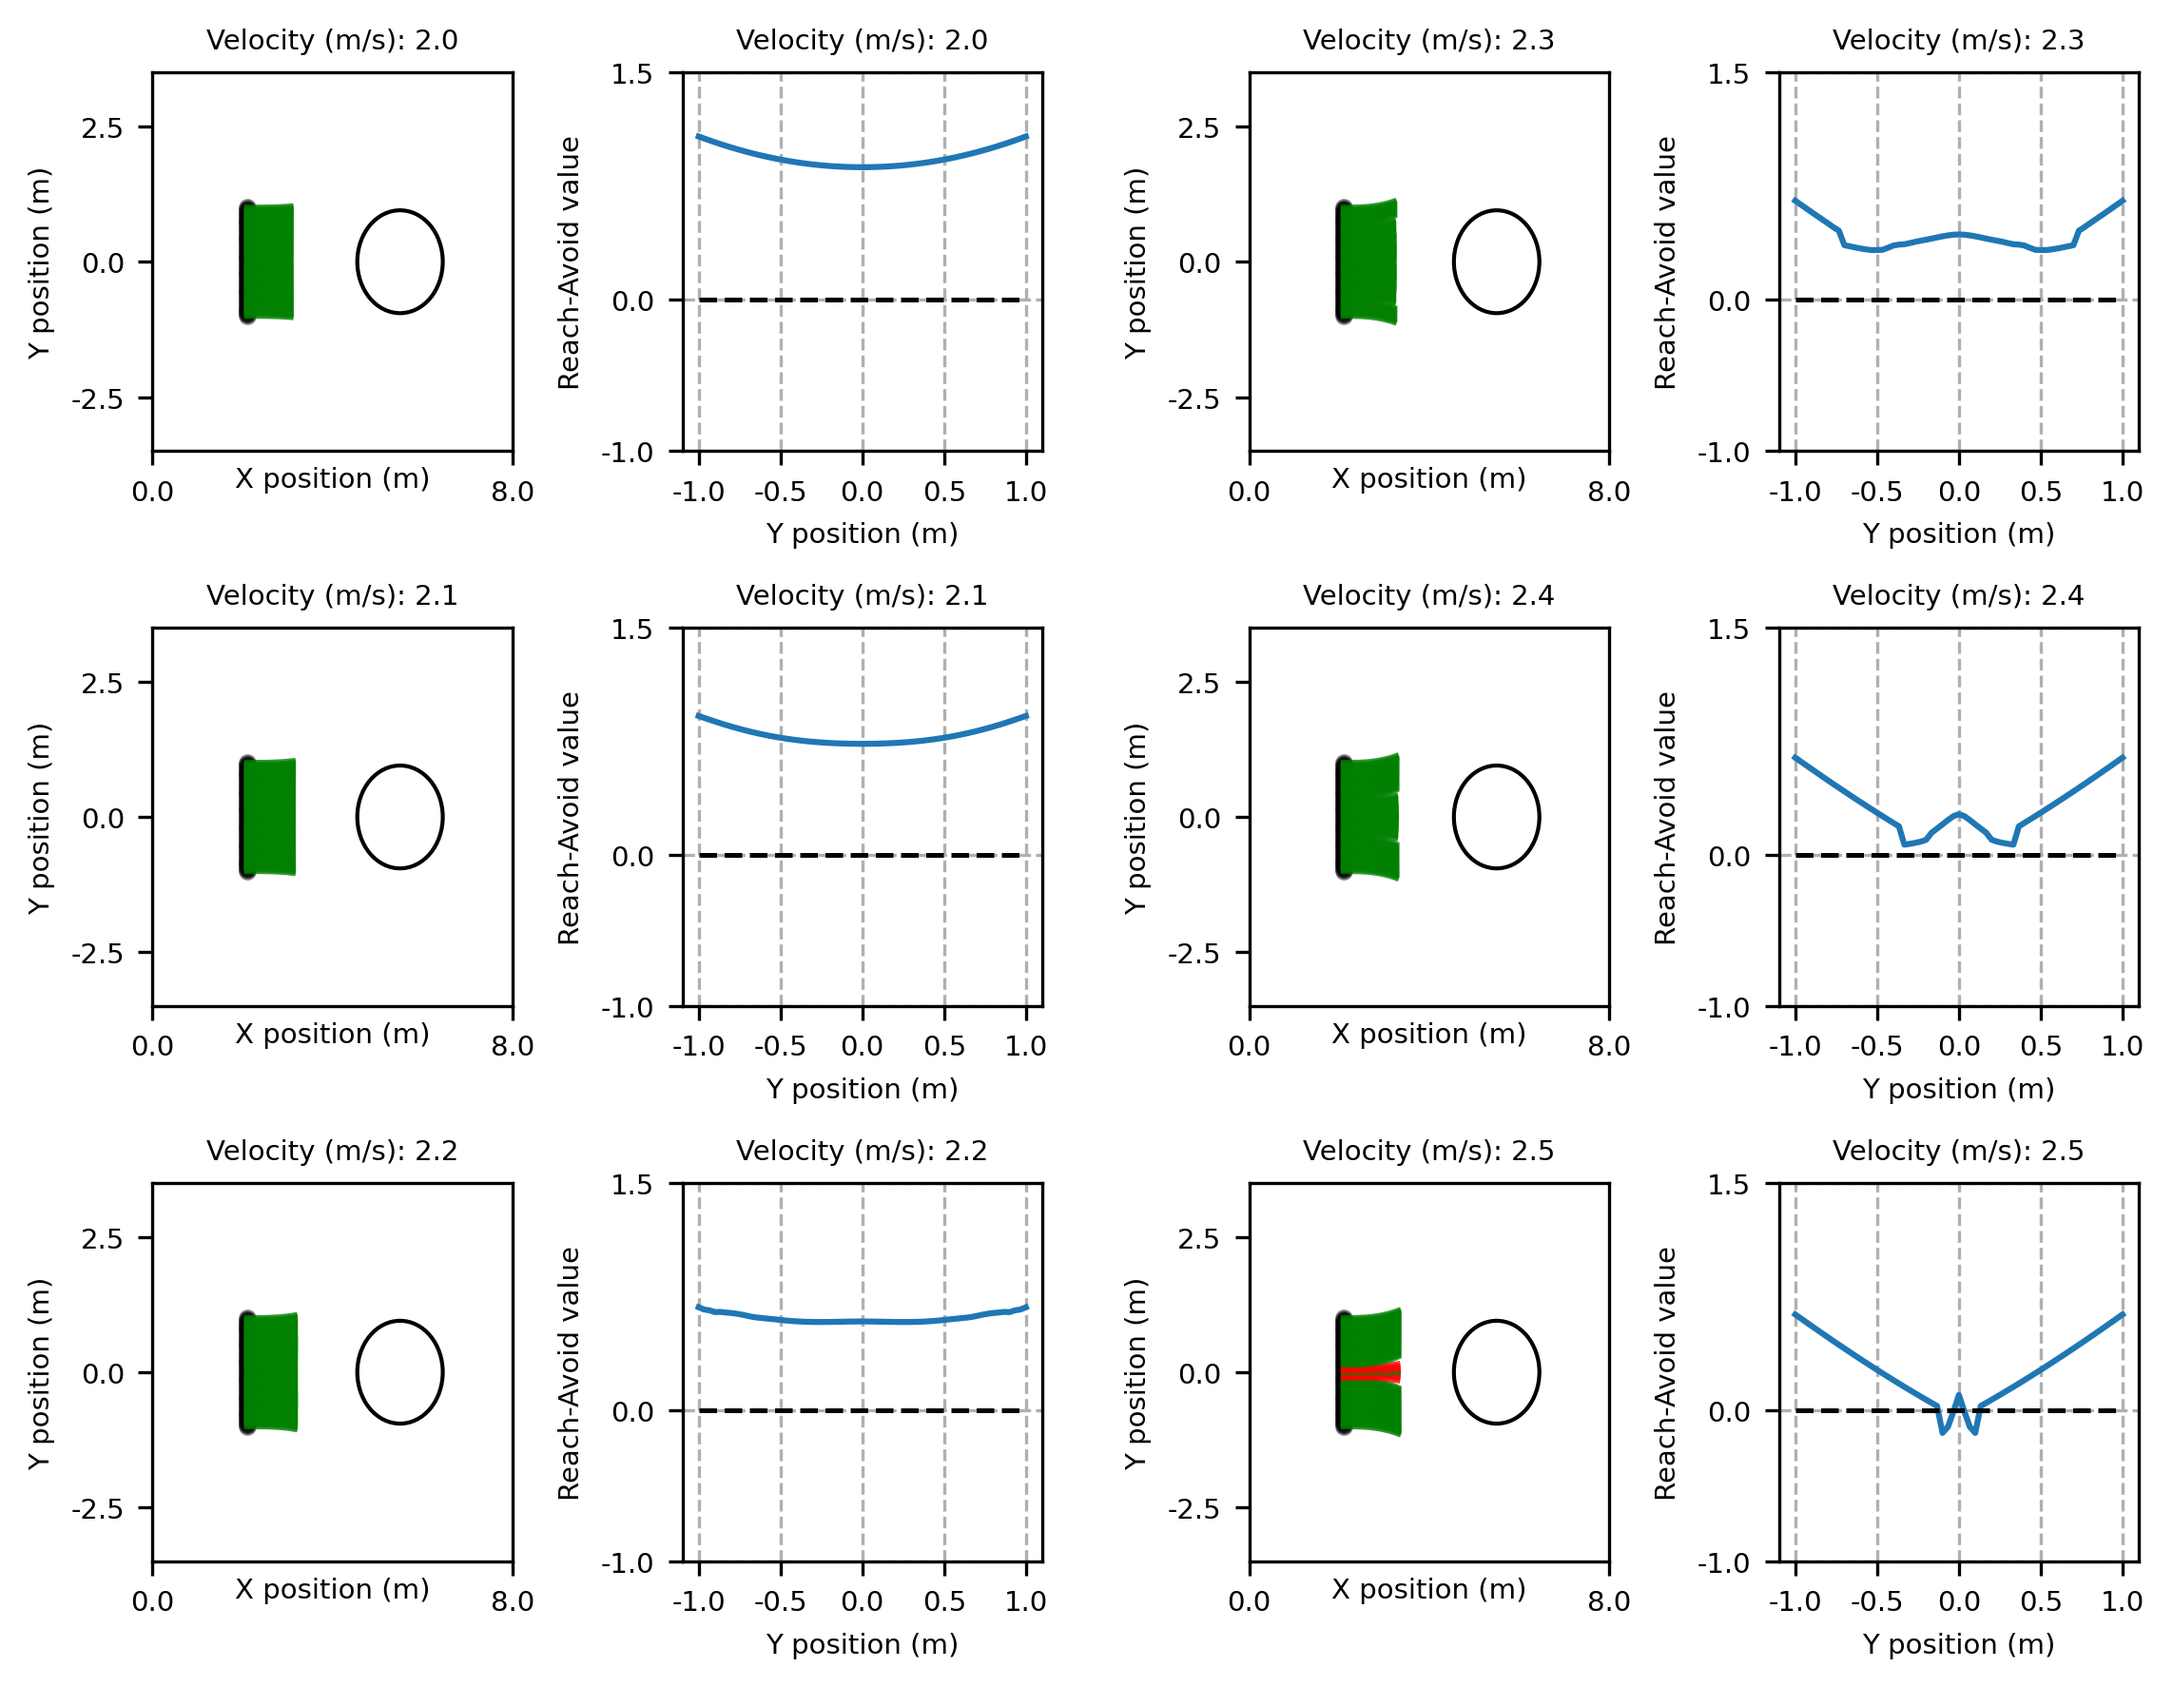
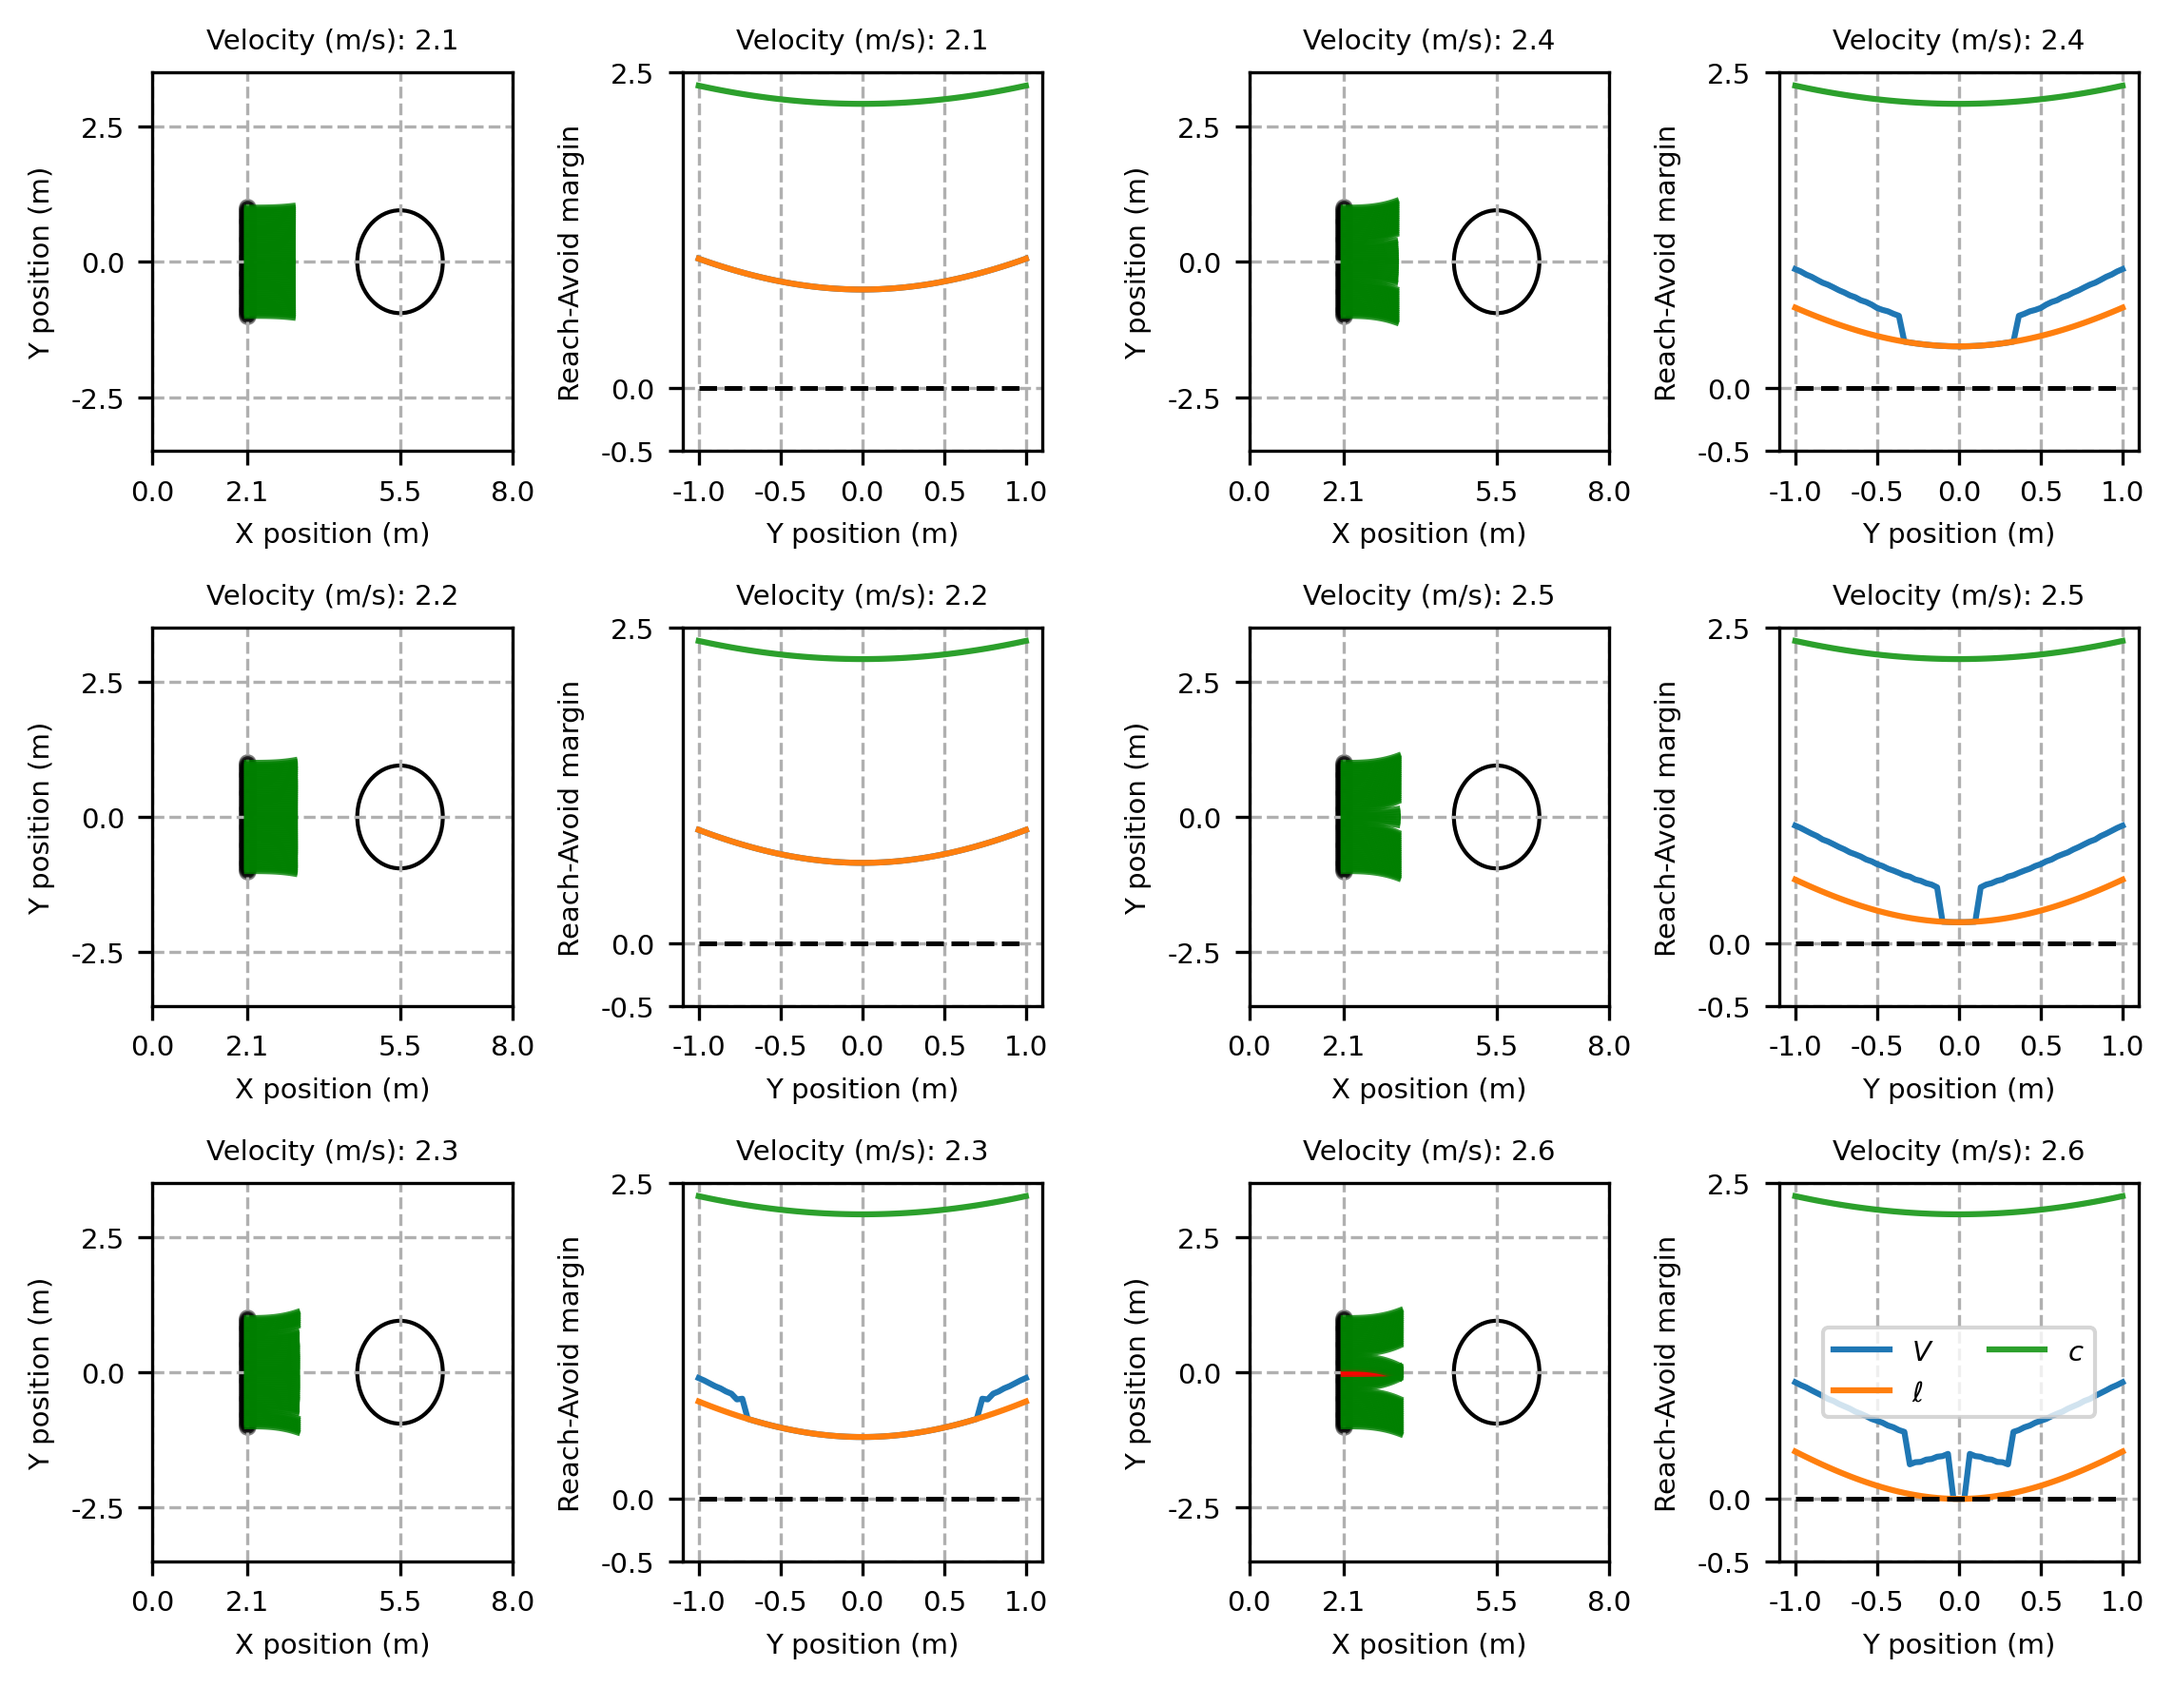
updates

diff --git a/run_ilqr_solvers.py b/run_ilqr_solvers.py
@@ -51,7 +51,7 @@ def main(config_file, road_boundary, filter_type):
     ncols = 2
     subfigs = fig.subfigures(nrows, ncols, wspace=0.05, width_ratios=[1.0, 1.0], height_ratios=[1.0, 1.0, 1.0])
 
-    for velindx, vels in enumerate([2.0, 2.1, 2.2, 2.3, 2.4, 2.5]):
+    for velindx, vels in enumerate([2.1, 2.2, 2.3, 2.4, 2.5, 2.6]):
         row_idx = int(velindx%nrows)
         col_idx = int(velindx/nrows)
         x_cur = np.array([2.1, 0., vels, 0., 0.])
@@ -100,7 +100,9 @@ def main(config_file, road_boundary, filter_type):
         dim_1_samples = 30
 
         boot_controls = None
-        Vopts = []
+        marginopts = []
+        target_margs = []
+        failure_margs = []
         for x1_idx in np.arange(-dim_1_samples, dim_1_samples + 1):
             x0_frac = 0.0
             x1_frac = x1_idx/float(dim_1_samples)
@@ -114,8 +116,10 @@ def main(config_file, road_boundary, filter_type):
 
             runtimes.append(end_time)
             #boot_controls = solver_info['controls']
-            Vopts.append(solver_info['Vopt'])
-            if solver_info['Vopt'] > 0:
+            marginopts.append(solver_info['marginopt'])
+            target_margs.append(solver_info['curr_target_margin'])
+            failure_margs.append(solver_info['curr_failure_margin'])
+            if solver_info['marginopt'] > 0:
                 ax.plot(solver_info['states'][0], solver_info['states'][1], color='g', alpha=0.8)
                 ax.scatter(solver_info['states'][0, 0], solver_info['states'][1, 0], color='k', s=12, alpha=0.5)
             else:
@@ -123,24 +127,29 @@ def main(config_file, road_boundary, filter_type):
                 ax.scatter(solver_info['states'][0, 0], solver_info['states'][1, 0], color='k', s=12, alpha=0.5)
 
         xvals = np.arange(-dim_1_samples, dim_1_samples + 1)/float(dim_1_samples)
-        ax_v.plot(xvals, Vopts)
+        ax_v.plot(xvals, marginopts, label='$V$')
+        ax_v.plot(xvals, target_margs, label='$\ell$')
+        ax_v.plot(xvals, failure_margs, label='$c$')
+        if velindx==5:
+            ax_v.legend(fontsize=legend_fontsize, ncol=2)
         ax_v.plot(xvals, np.zeros_like(xvals), 'k--', linewidth=1.2)
         ax.set_title(f'Velocity (m/s): {vels}', fontsize=legend_fontsize)
         ax_v.set_title(f'Velocity (m/s): {vels}', fontsize=legend_fontsize)
         ax.set_xlabel('X position (m)', fontsize=legend_fontsize)
         ax.set_ylabel('Y position (m)', fontsize=legend_fontsize)
-        ax.set_xticks(ticks=[0.0, 8.0], labels=[0.0, 8.0], fontsize=legend_fontsize)
+        ax.set_xticks(ticks=[0.0, 2.1, 5.5, 8.0], labels=[0.0, 2.1, 5.5, 8.0], fontsize=legend_fontsize)
         ax.set_yticks(ticks=[-2.5, 0.0, 2.5], 
                             labels=[-2.5, 0.0, 2.5], 
                             fontsize=legend_fontsize)
+        ax.grid(linestyle='--')
         ax_v.set_xticks(ticks=[-1.0, -0.5, 0.0, 0.5, 1.0], labels=[-1.0, -0.5, 0.0, 0.5, 1.0], fontsize=legend_fontsize)
-        ax_v.set_yticks(ticks=[-1.0, 0.0, 1.5], 
-                            labels=[-1.0, 0.0, 1.5], 
+        ax_v.set_yticks(ticks=[-0.5, 0.0, 2.5], 
+                            labels=[-0.5, 0.0, 2.5], 
                             fontsize=legend_fontsize)
-        ax_v.set_ylim([-1.0, 1.5])
-        ax.xaxis.set_label_coords(0.5, -0.04)
+        ax_v.set_ylim([-0.5, 2.5])
+        #ax.xaxis.set_label_coords(0.5, -0.04)
         ax_v.set_xlabel('Y position (m)', fontsize=legend_fontsize)
-        ax_v.set_ylabel('Reach-Avoid value', fontsize=legend_fontsize)
+        ax_v.set_ylabel('Reach-Avoid margin', fontsize=legend_fontsize)
         ax_v.grid(linestyle='--')
 
         runtimes = np.array(runtimes)

diff --git a/simulators/policy/ilqr_reachavoid_policy.py b/simulators/policy/ilqr_reachavoid_policy.py
@@ -49,10 +49,10 @@ class iLQRReachAvoid(iLQR):
 
         is_inside_target = (target_margins[0] > 0)
         ctrl_costs = self.cost.ctrl_cost.get_mapped_margin(states, controls)
-        critical, reachavoid__margin = self.get_critical_points(
+        critical, reachavoid_margin = self.get_critical_points(
             failure_margins, target_margins)
 
-        J = (reachavoid__margin + jnp.sum(ctrl_costs)).astype(float)
+        J = (reachavoid_margin + jnp.sum(ctrl_costs)).astype(float)
 
         converged = False
         time0 = time.time()
@@ -125,6 +125,8 @@ class iLQRReachAvoid(iLQR):
             states=states, controls=controls, reinit_controls=controls, t_process=t_process,
             status=status, Vopt=J, marginopt=reachavoid_margin,
             grad_x=V_x, grad_xx=V_xx, B0=fu[:, :, 0], critical=critical,
+            curr_target_margin = target_margins[0],
+            curr_failure_margin = failure_margins[0],
             is_inside_target=is_inside_target, K_closed_loop=K_closed_loop, k_open_loop=k_open_loop,
             constant_term=np.float64(constant_term_loop[0])
         )
